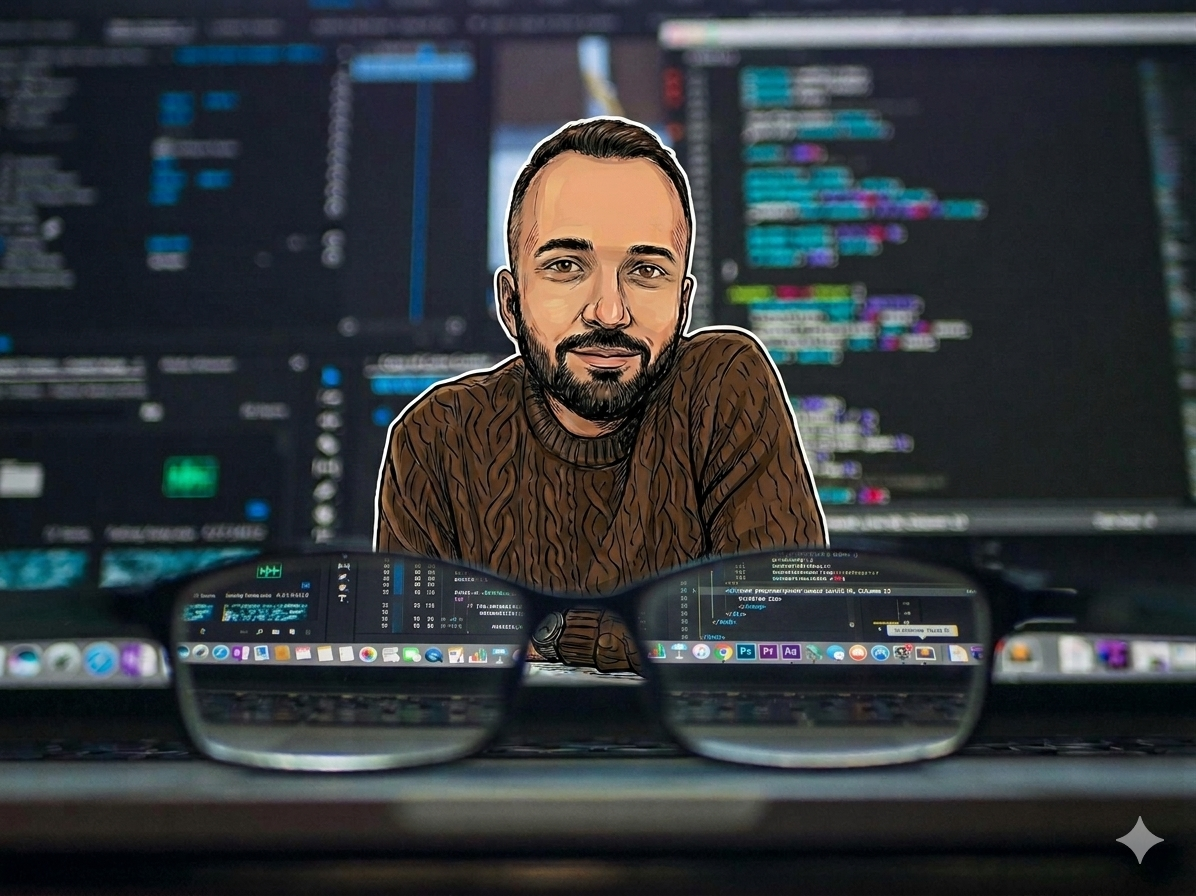
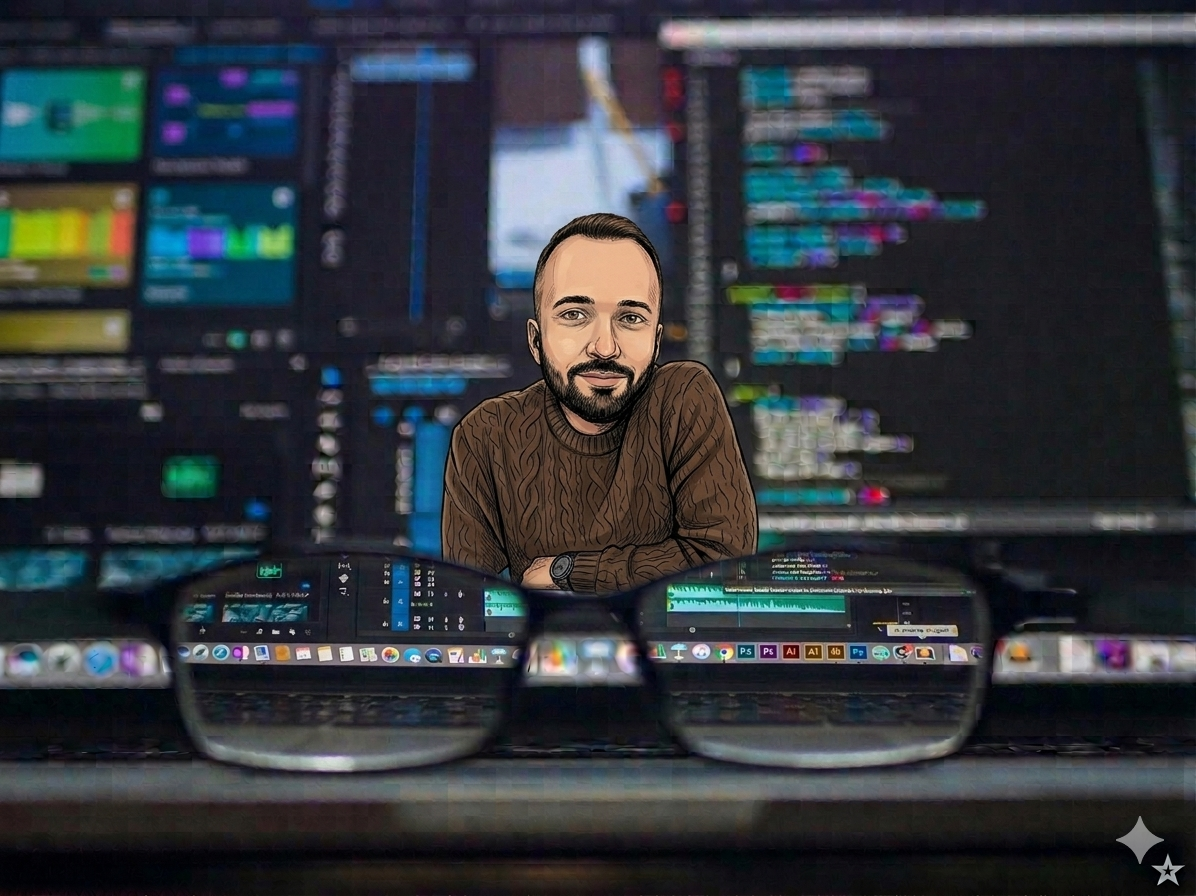
Add personalised images

diff --git a/_sass/styles.scss b/_sass/styles.scss
@@ -127,7 +127,7 @@ body.exiting {
 header.masthead {
   opacity: 0;
   transition: opacity 0.5s ease-in;
-  background-position-y: 50%;
+  background-position-y: 35%;
 
   &.masthead-loaded {
     opacity: 1;
@@ -1222,17 +1222,6 @@ html[data-theme="dark"] .footer-nav a {
 
 // ── About page avatar ─────────────────────────────────────────────────────────
 
-.about-profile { margin-bottom: 1.5rem; }
-
-.about-avatar {
-  width: 120px;
-  height: 120px;
-  object-fit: cover;
-  border: 3px solid #e9ecef;
-  display: block;
-}
-
-html[data-theme="dark"] .about-avatar { border-color: #2c2d2d !important; }
 
 // ── Author card subscribe link ────────────────────────────────────────────────
 